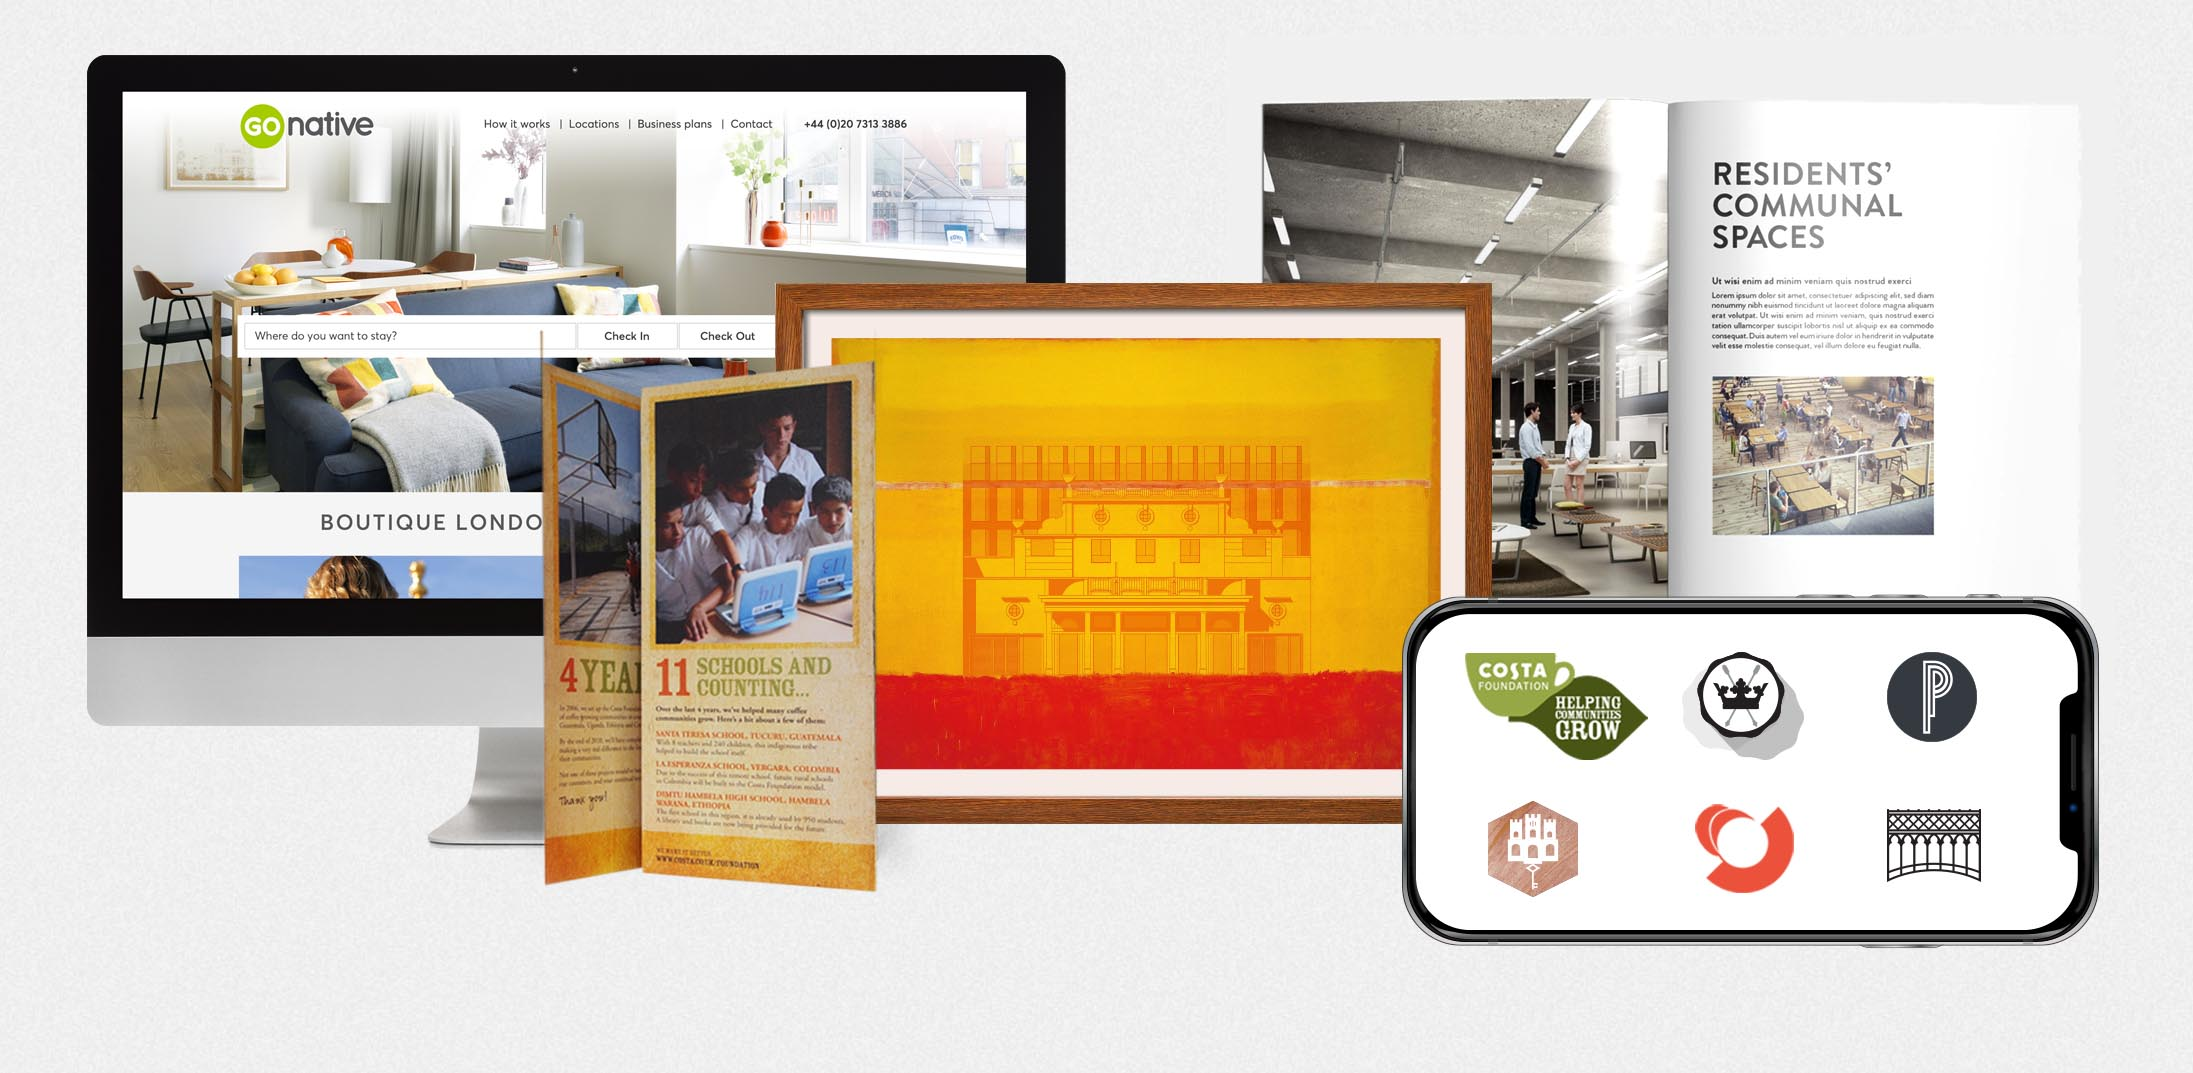
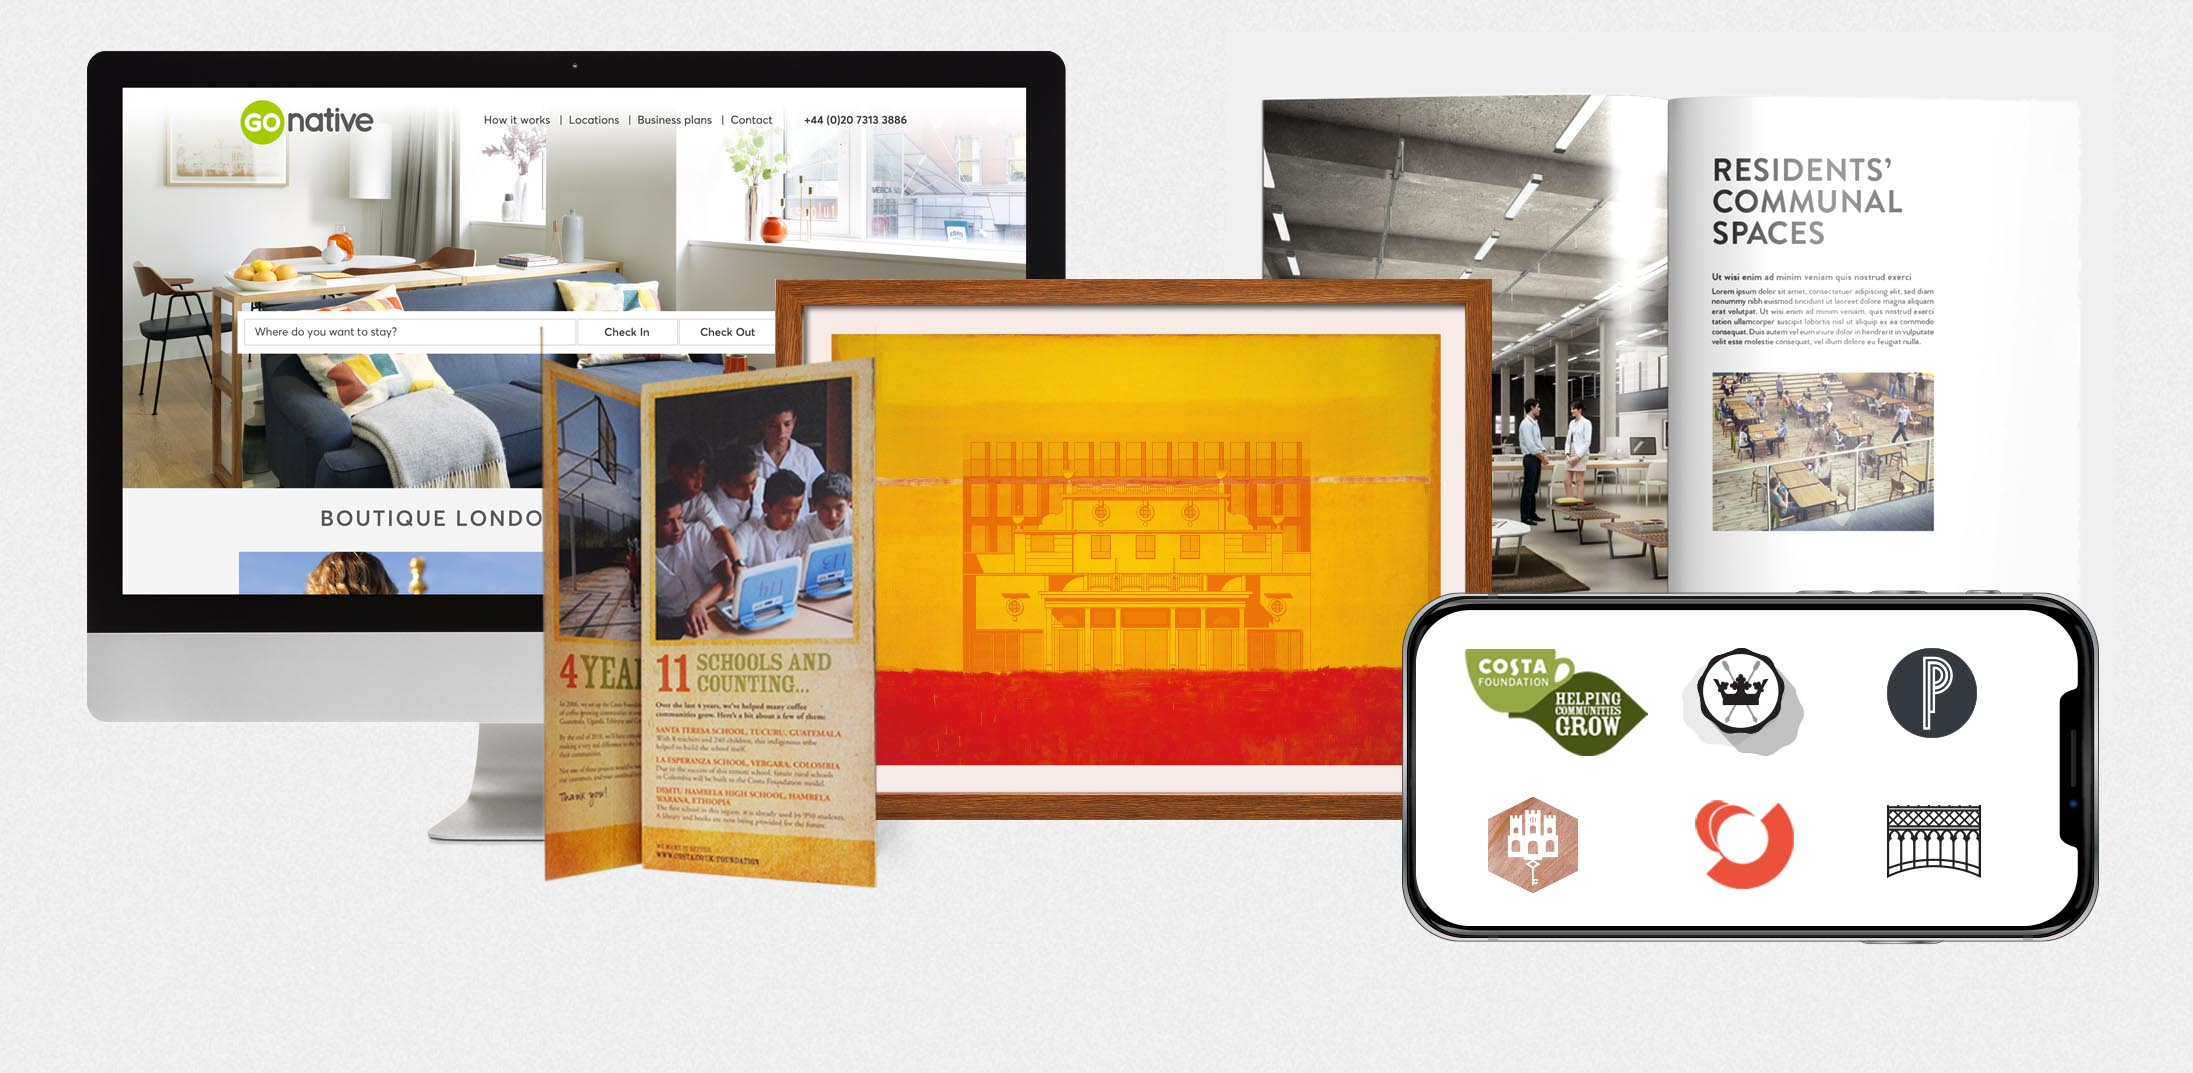
Simplified About me page

diff --git a/about.html b/about.html
@@ -73,79 +73,57 @@
   <!-- BEGIN your content here -->
 
 
-
   <!-- END your content here -->
 </div>
 
-<p><h2>Graphic Design & Branding</h2></p>
-<p><h3>With a degree in graphic design, I’ve worked across multiple sectors producing work that includes logo design, illustration, typography, print ads, point-of-sale, brochure layout & design, social media ads, commercial signage and internal way-finding.<h3></p>
-
-<br>
+<p><h3></h3></p>
 
 
-<div class="grid-100">
-  <img src="../images/detail/About/gavinvanrood.com_About_GD.jpg">
+<div class="grid-50">
+ <img src="../images/detail/About/gavinvanrood.com_About_GD.jpg">
 </div>
-
-
-<br>
-<br>
-<br>
 
 
 <!-- END your content here -->
 </div>
 
 
-<p><h2>Art Direction</h2></p>
-<p><h3>Working in a classic Art-director / Copywriter duo team, I’ve helped to produce numerous pitch proposals, ad campaigns, refine brand’s tone of voice and created brand guidelines - leading creative direction and assuming brand guardian responsibility with an enthusiastic hands-on approach. Making good use of my background in graphic design, I create clean & considered presentation docs, PSD visualisations and digital mock-ups.<h3></p>
-
-<br>
+<p><h3></h3></p>
 
 
-<div class="grid-100">
-  <img src="../images/detail/About/gavinvanrood.com_About_AD.jpg">
+
+<div class="grid-50">
+ <img src="../images/detail/About/gavinvanrood.com_About_AD.jpg">
 </div>
 
 
-<br>
-<br>
-<br>
 
 
 <!-- END your content here -->
 </div>
 
-<p><h2>Photoshoot Art Direction</h2></p>
-<p><h3>Taking my creative skills into the physical world and public spaces, I’ve worked on shoots for corporate branding, fashion styling and most recently the leisure hotel market as part of a wider branding campaign, creating a consistent look for over 300 unique properties. From sourcing props to dressing rooms and partnering with photographers, I’ve always enjoyed being hands on, and on-location.<h3></p>
-
-<br>
+<p><h3></h3></p>
 
 
-<div class="grid-100">
-  <img src="../images/detail/About/gavinvanrood.com_About_ADP.jpg">
+<div class="grid-50">
+ <img src="../images/detail/About/gavinvanrood.com_About_ADP_2.jpg">
 </div>
-
-
-<br>
-<br>
-<br>
 
 
 <!-- END your content here -->
 </div>
 
 
-<p><h2>Interior Design</h2></p>
-<p><h3>Following recent studies in interior design, I’ve taken my domestic practice of this field into the commercial sphere, leading the creative direction in collaboration with Conran Interiors, for a suite of rental apartments in London’s Old St. Combining my skills in technical & perspective drawing with a love for patterns, textures, space zoning and furniture sourcing, I create creative solutions from colour scheme concepts to accurate plans and 3D renders.<h3></p>
+
+<p><h3></h3></p>
 
 
-  <div class="grid-100">
-    <img src="../images/detail/About/gavinvanrood.com_About_ID.jpg">
-  </div>
+ <div class="grid-50">
+   <img src="../images/detail/About/gavinvanrood.com_About_ID_2.jpg">
+ </div>
 
 
 </section><!-- End of work sample section-->
 
-  </body>
+ </body>
 </html>
